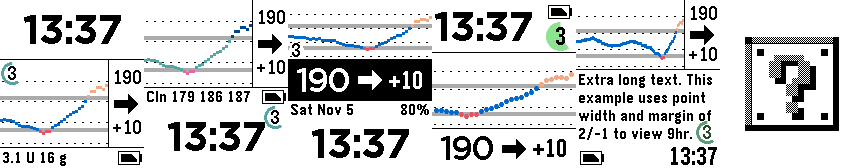
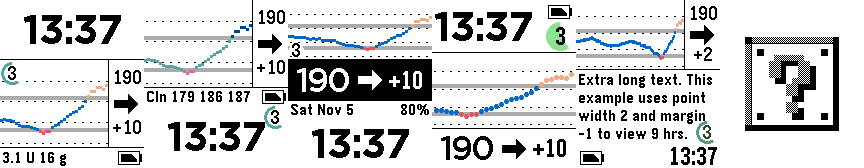
Clarify layout E status text

Changed region(s): [[0.6562, 0.744, 0.8125, 0.8333], [0.7188, 0.6548, 0.8438, 0.744], [0.75, 0.2679, 0.8438, 0.3571]]

diff --git a/test/test_screenshots.py b/test/test_screenshots.py
@@ -309,7 +309,7 @@ class TestLayoutE(ScreenshotTest):
         'pointWidth': 2,
         'pointMargin': -1,
         'statusContent': 'customtext',
-        'statusText': 'Extra long text. This example uses point width and margin of 2/-1 to view 9hr.',
+        'statusText': 'Extra long text. This example uses point width 2 and margin -1 to view 9 hrs.',
     })
 
 

diff --git a/README.md b/README.md
@@ -16,7 +16,7 @@ In the Pebble app on your phone, open the "Settings" screen to set your Nightsco
 
 The layout is one of the most Ridiculously Configurable aspects of Urchin. The settings page includes a handful of pre-set layouts to get you started:
 
-![](http://i.imgur.com/4DhR6s8.png) ![](http://i.imgur.com/3dV3dKa.png) ![](http://i.imgur.com/tX352M2.png)
+![](http://i.imgur.com/4DhR6s8.png) ![](http://i.imgur.com/3dV3dKa.png) ![](http://i.imgur.com/KMhoWEv.png)
 
 Use one as a starting point to build your own watchface: reorder the elements, change heights and colors, toggle borders, move the icons...
 
